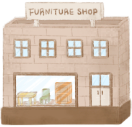
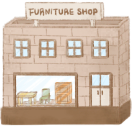
feat: 가구점 배경화면 design

diff --git a/src/screen/DonwTown/FurnitureShop.js b/src/screen/DonwTown/FurnitureShop.js
@@ -109,39 +109,40 @@ export default ({ navigation }) => {
                     <StyleText type='bold' style={{ fontSize: 20 }}>{formatNumber(coin)}</StyleText>
                 </View>
             </View>
-            <View style={{ flexDirection: 'row', justifyContent: "center", alignItems: 'flex-end' }}>
-                <TouchableOpacity onPress={() => setType('FT02')} style={{ paddingHorizontal: 10, paddingVertical: 8 }}>
-                    <StyleText type='bold' style={{ fontSize: 23 }}>책상</StyleText>
-                </TouchableOpacity>
-                <StyleText type='bold' style={{ fontSize: 23, marginHorizontal: 38, paddingHorizontal: 10, paddingVertical: 8 }}>|</StyleText>
-                <TouchableOpacity onPress={() => setType('FT05')} style={{ paddingHorizontal: 10, paddingVertical: 8 }}>
-                    <StyleText type='bold' style={{ fontSize: 23 }}>책장</StyleText>
-                </TouchableOpacity>
-            </View>
-            <View style={{ flex: 1, flexDirection: 'row', alignItems: 'center', paddingBottom: 30 }}>
-                <TouchableOpacity onPress={() => {
-                    alert('back')
-                }}>
-                    <Image source={require('../../img/downtown/store-left-arrow.png')} style={{ width: 21, height: 36, marginHorizontal: 16 }} />
-                </TouchableOpacity>
-                <View style={{ flex: 1, justifyContent: 'center', alignItems: 'center' }}>
-                    <ImageBackground source={require("../../img/downtown/store-shelf.png")} style={{ width: 278, height: 510, paddingHorizontal: 15 }}>
-                        <FlatList
-                            data={lists}
-                            renderItem={renderItem}
-                            numColumns={2}
-                            horizontal={false}
-                            keyExtractor={(item, index) => item.IDX}
-                        />
-                    </ImageBackground>
+            <ImageBackground source={require("../../img/downtown/furniture-bg.png")} style={{flex:1,}} resizeMode="contain" >
+                <View style={{position: 'absolute',backgroundColor:'#000000',left:0,top:0,width:'100%',height:'100%',opacity: 0.4}}/>
+                <View style={{ flexDirection: 'row', justifyContent: "center", alignItems: 'flex-end' }}>
+                    <TouchableOpacity onPress={() => setType('FT02')} style={{ paddingHorizontal: 10, paddingVertical: 8 }}>
+                        <StyleText type='bold' style={{ fontSize: 23 }}>책상</StyleText>
+                    </TouchableOpacity>
+                    <StyleText type='bold' style={{ fontSize: 23, marginHorizontal: 38, paddingHorizontal: 10, paddingVertical: 8 }}>|</StyleText>
+                    <TouchableOpacity onPress={() => setType('FT05')} style={{ paddingHorizontal: 10, paddingVertical: 8 }}>
+                        <StyleText type='bold' style={{ fontSize: 23 }}>책장</StyleText>
+                    </TouchableOpacity>
                 </View>
-                <TouchableOpacity onPress={() => {
-                    alert('go')
-                }}>
-                    <Image source={require('../../img/downtown/store-right-arrow.png')} style={{ width: 21, height: 36, marginHorizontal: 16 }} />
-                </TouchableOpacity>
+                <View style={{ flex: 1, flexDirection: 'row', alignItems: 'center', paddingBottom: 30 }}>
+                    <TouchableOpacity onPress={() => {
+                        alert('back')
+                    }}>
+                        <Image source={require('../../img/downtown/store-left-arrow.png')} style={{ width: 21, height: 36, marginHorizontal: 16 }} />
+                    </TouchableOpacity>
+                    <View style={{ flex: 1, justifyContent: 'center', alignItems: 'center' }}>
+                            <FlatList
+                                data={lists}
+                                renderItem={renderItem}
+                                numColumns={2}
+                                horizontal={false}
+                                keyExtractor={(item, index) => item.IDX}
+                            />
+                    </View>
+                    <TouchableOpacity onPress={() => {
+                        alert('go')
+                    }}>
+                        <Image source={require('../../img/downtown/store-right-arrow.png')} style={{ width: 21, height: 36, marginHorizontal: 16 }} />
+                    </TouchableOpacity>
 
-            </View>
+                </View>
+            </ImageBackground>
         </SafeAreaView>
     )
 }

diff --git a/src/screen/Dock/DownTownScreen.js b/src/screen/Dock/DownTownScreen.js
@@ -1,18 +1,23 @@
 import React from 'react';
-import { SafeAreaView,ImageBackground,TouchableOpacity,Image } from 'react-native';
+import { SafeAreaView,ImageBackground,TouchableWithoutFeedback,Image } from 'react-native';
 
 export default({navigation})=>{
     return (
         <SafeAreaView style={{flex:1}}>
             <ImageBackground source={require("../../img/downtown/downtown-bg.png")} style={{width: '100%', height: '100%'}}>
-                <TouchableOpacity onPress={()=>navigation.navigate("FurnitureShop")} style={{position:"absolute",left:'10%',bottom:"26%"}}>
-                    <Image source={require("../../img/downtown/furniture-shop.png")}  style={{width: 137,height: 127}}/>
-                </TouchableOpacity>
+                <TouchableWithoutFeedback onPress={()=>navigation.navigate("FurnitureShop")}>
+                    <Image source={require("../../img/downtown/fitness-shop.png")}  style={{width: 136,height: 114,position:"absolute",left:'10%',top:"23%"}}/>
+                </TouchableWithoutFeedback>
+                <TouchableWithoutFeedback onPress={()=>navigation.navigate("ElectroShop")} >
+                    <Image source={require("../../img/downtown/variety-shop.png")} style={{width: 144,height: 119,position:"absolute",right:'7%',top:"25%"}} />
+                </TouchableWithoutFeedback>
+                <TouchableWithoutFeedback onPress={()=>navigation.navigate("FurnitureShop")}>
+                    <Image source={require("../../img/downtown/furniture-shop.png")}  style={{width: 137,height: 127,position:"absolute",left:'10%',bottom:"19%"}}/>
+                </TouchableWithoutFeedback>
+                <TouchableWithoutFeedback onPress={()=>navigation.navigate("ElectroShop")} >
+                    <Image source={require("../../img/downtown/electro-shop.png")} style={{width: 137,height: 115,position:"absolute",right:'10%',bottom:"19%"}} />
+                </TouchableWithoutFeedback>
             </ImageBackground>
-            <TouchableOpacity onPress={()=>navigation.navigate("ElectroShop")} style={{position:"absolute",right:'10%',bottom:"26%"}}>
-                <Image source={require("../../img/downtown/electro-shop.png")} style={{width: 137,height: 115}}>
-                </Image>
-            </TouchableOpacity>
         </SafeAreaView>
     )
 }

diff --git a/src/screen/DonwTown/ElectroShop.js b/src/screen/DonwTown/ElectroShop.js
@@ -44,14 +44,14 @@ export default ({navigation}) => {
                     <StyleText type='bold' style={{fontSize:20}}>{coin}</StyleText>
                 </View>
             </View>
-            <View style={{flex:1,backgroundColor:"tomato",flexDirection:'row',alignItems:'center'}}>
+            <View style={{flex:1,flexDirection:'row',alignItems:'center'}}>
                 <TouchableOpacity onPress={()=>{
                     alert('back')
                 }}>
                     <Image source={require('../../img/downtown/store-left-arrow.png')} style={{width: 21,height:36,marginHorizontal:16}} />
                 </TouchableOpacity>
                 <View style={{flex:1,justifyContent:'center',alignItems:'center'}}>
-                    <ImageBackground source={require("../../img/downtown/store-shelf.png")} style={{width:278,height:510}}>
+                    {/* <ImageBackground source={require("../../img/downtown/store-shelf.png")} style={{width:278,height:510}}> */}
                         <FlatList
                             data={lists}
                             renderItem={renderItem}
@@ -59,7 +59,7 @@ export default ({navigation}) => {
                             horizontal={false}
                             keyExtractor={(item, index) => item.IDX}
                         />
-                    </ImageBackground>
+                    {/* </ImageBackground> */}
                 </View>
                 <TouchableOpacity onPress={()=>{
                     alert('go')

diff --git a/src/modules/send.js b/src/modules/send.js
@@ -2,8 +2,8 @@ import axios from 'axios'
 import EncryptedStorage from 'react-native-encrypted-storage';
 const instance = axios.create({
     // baseURL: 'https://api.yomis-day.com/api/v0',
-    // baseURL: 'http://192.168.0.16:3000/api/v0',
-    baseURL: 'http://118.32.187.49:3000/api/v0',
+    baseURL: 'http://192.168.55.127:3000/api/v0',
+    // baseURL: 'http://118.32.187.49:3000/api/v0',
     timeout: 1000 * 60,
   });
 
